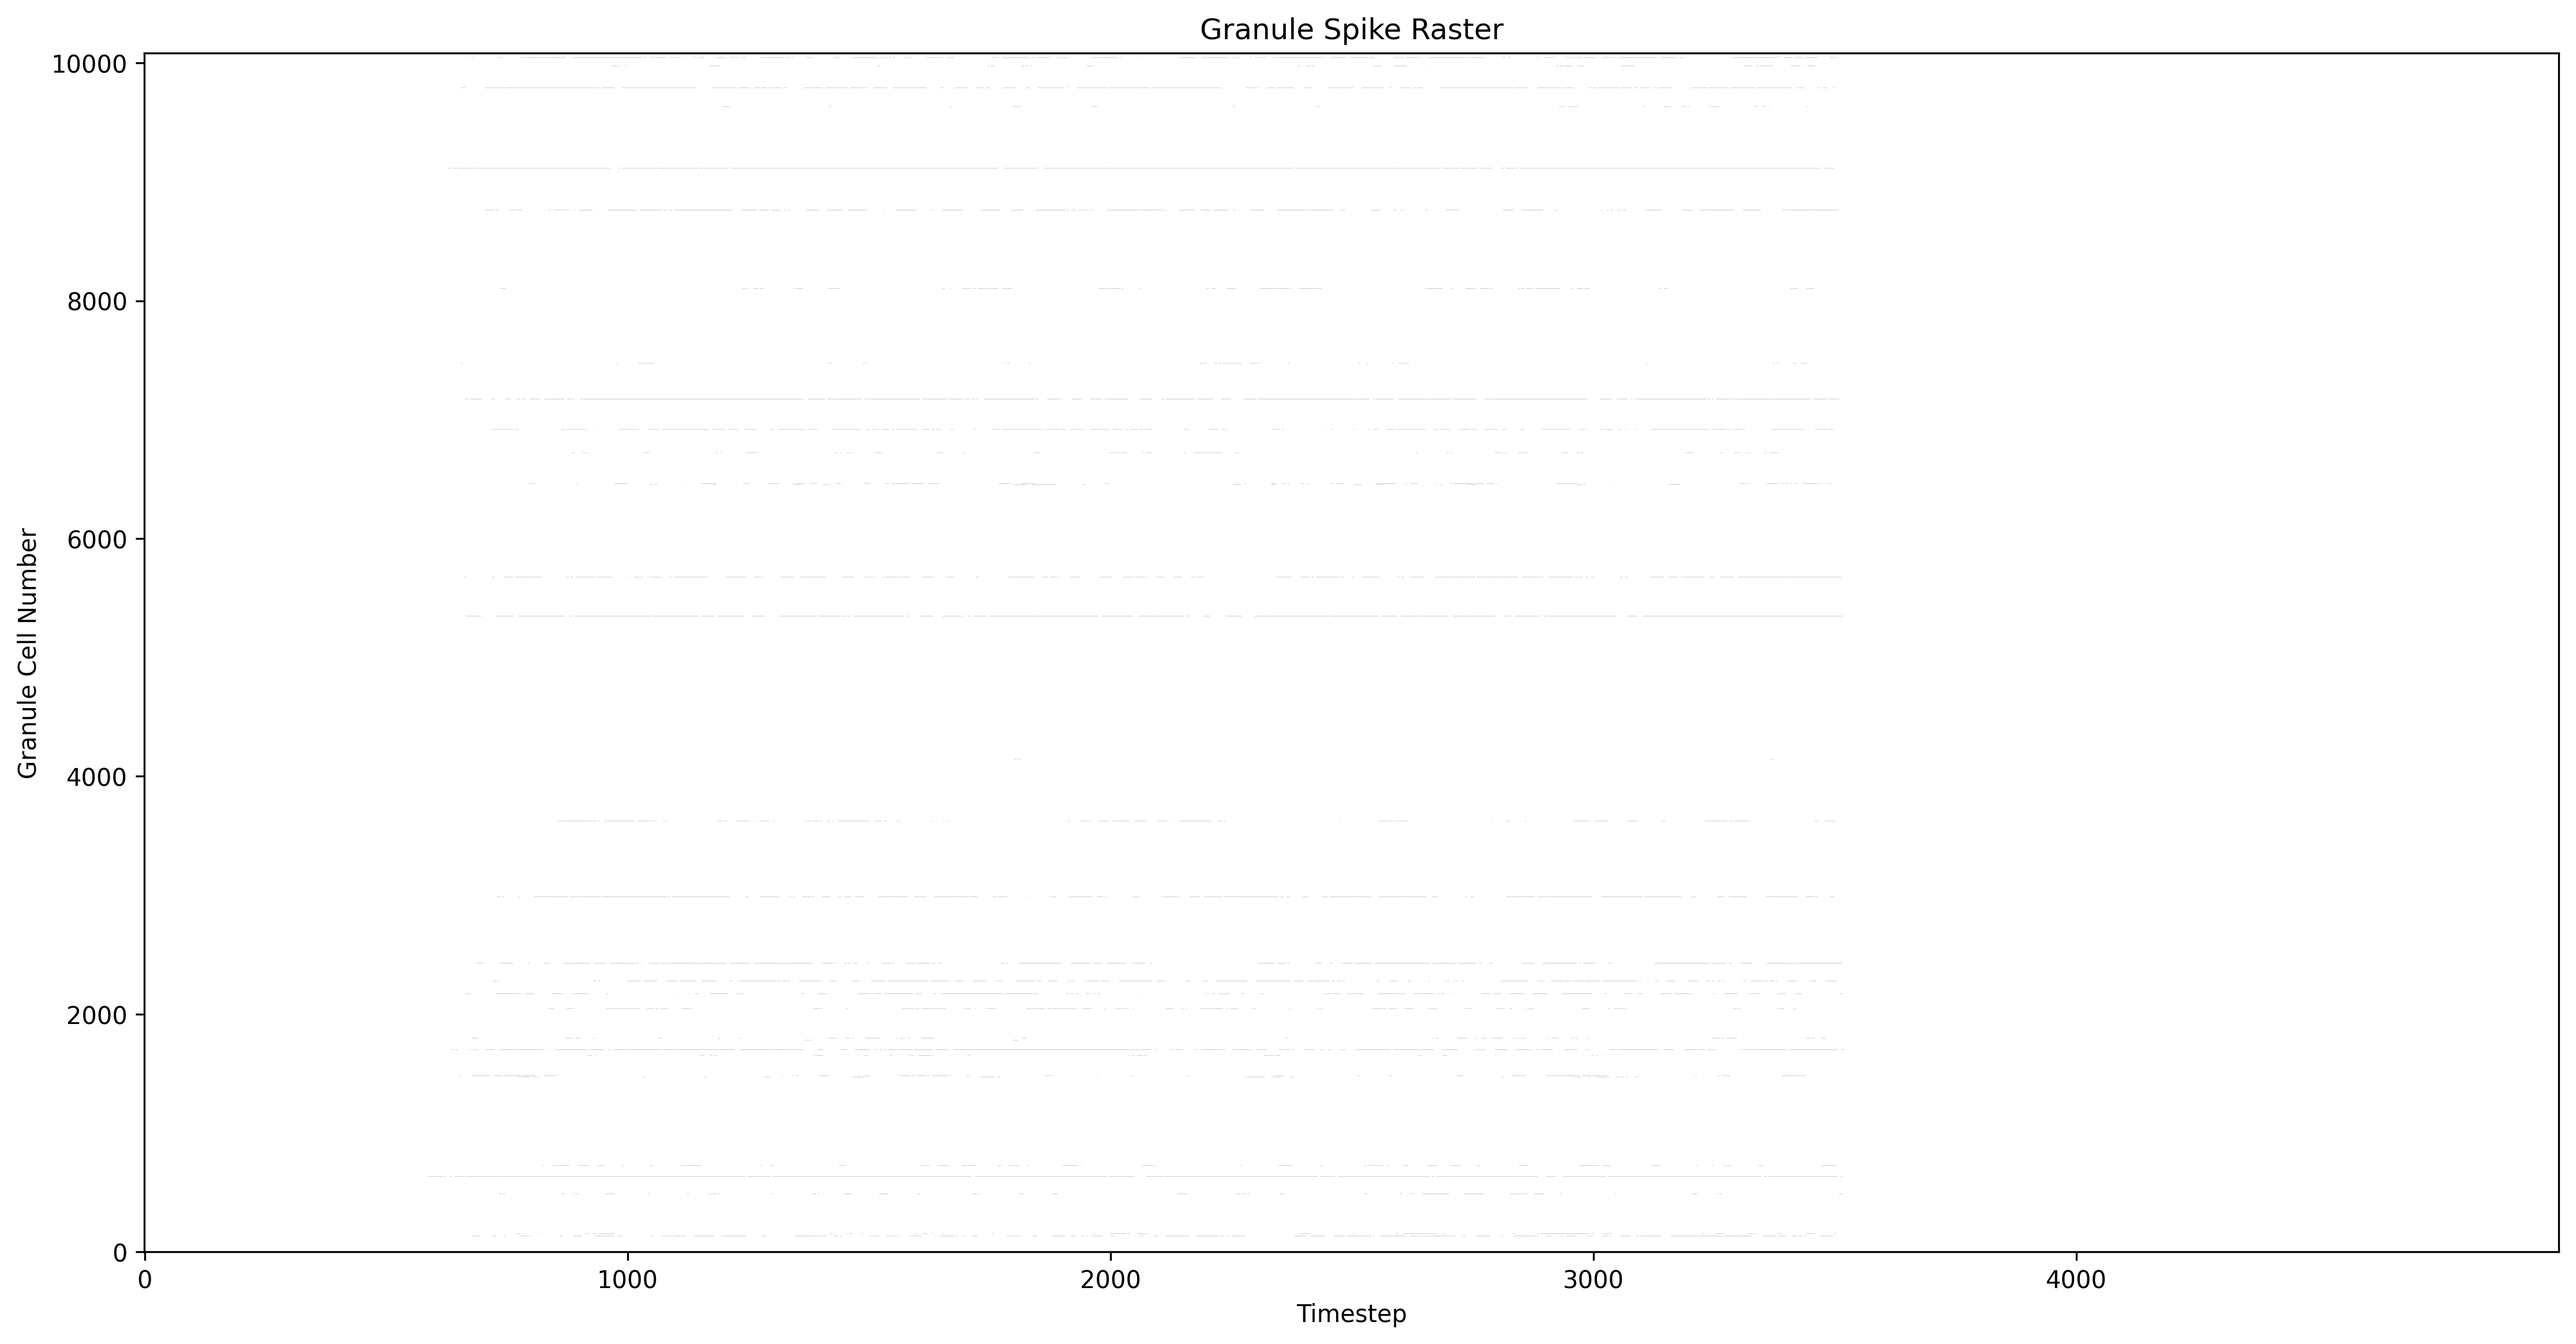
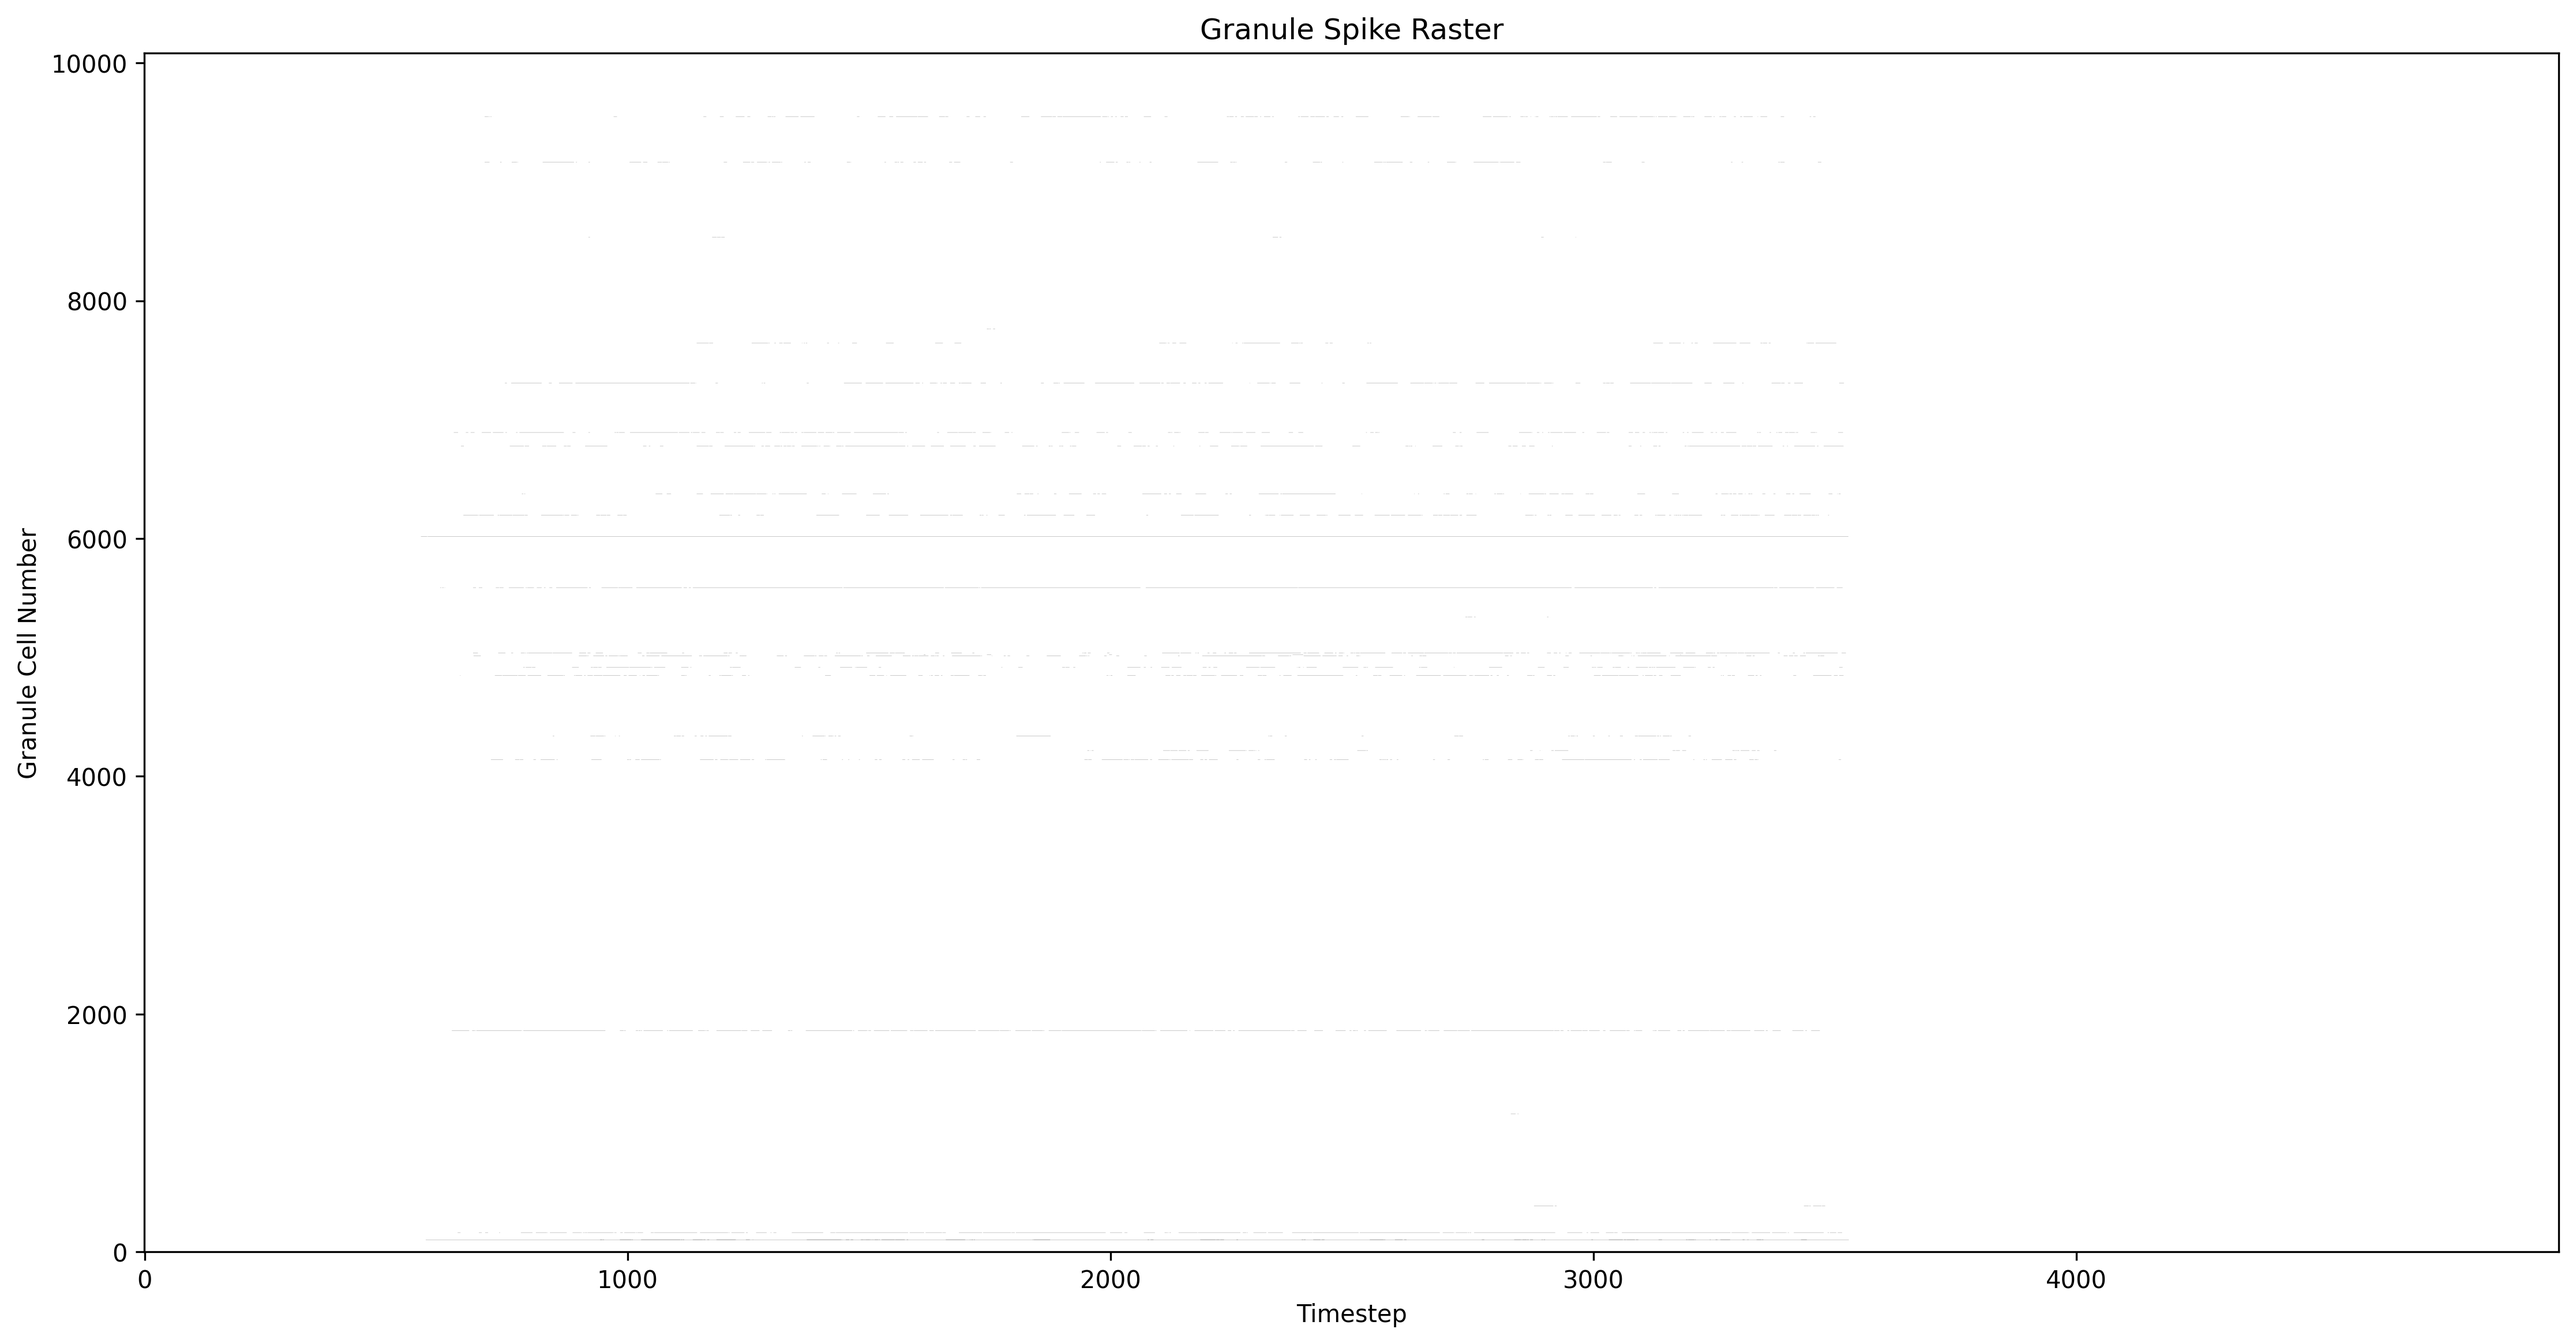
changed update input activity function for Go

diff --git a/run/control.py b/run/control.py
@@ -67,12 +67,14 @@ def run_session(recip, filpath_m, filepath_go, filepath_gr, conv, grgoW = 0.0007
         for t in range(0, numBins):
             timestep_start = time.time()
             MFact = MF.do_MF_dist(t, useCS)
-            # print("Mossy Fiber Activity generated")
+            print("Mossy Fiber Activity generated")
 
             # MF -> GR update
             GR.update_input_activity(MFGR_connect_arr, 1, mfAct = MFact)
             # do gr spikes
             GR.do_Granule(t)
+
+            print("MFGR complete")
 
             # grab GR activity
             GRact = GR.get_act()
@@ -80,17 +82,29 @@ def run_session(recip, filpath_m, filepath_go, filepath_gr, conv, grgoW = 0.0007
             # GR -> GO update
             GO.update_input_activity(GRGO_connect_arr, 3, grAct = GRact[trial])
 
+            print("GRGO complete")
+
             # MF -> GO
             GO.update_input_activity(MFGO_connect_arr, 1, mfAct = MFact)
             # GO spikes
             GO.do_Golgi(t)
 
+            print("MFGO complete")
+
             # GO -> GO update
             GO.update_input_activity(GOGO_connect_arr, 2, t = t)
+            
+            print("GOGO complete")
+
+            GOact = GO.get_act()
             # GO -> GR update
-            GO.update_input_activity(GRGO_connect_arr, 3, grAct = GRact[trial])
+            GR.update_input_activity(GOGR_connect_arr, 2, goAct = GOact[trial])
+
+            print("GOGR complete")
             
             MFrasters[t, :] = MFact
+
+            print("Time step:", t)
         # Final update
         # GR.updateFinalState()
         # Rasters

diff --git a/run/MFGoGrFunctions.py b/run/MFGoGrFunctions.py
@@ -260,10 +260,11 @@ class Golgi(): # class of Golgi cells, entire network of Golgi cells
             #     counts = np.zeros_like(self.inputMFGO)  # or use np.zeros(self.numGO) if more appropriate
             # else:
             #     counts = np.bincount(spiked_connections, minlength=self.inputMFGO.size)
+            
+            # Version 1 
             for i in range(self.numGolgi): 
                 gr_conn = connectArr[i]
                 valid_conn = gr_conn[gr_conn != -1]
-                grAct[valid_conn[0]] = 1
                 count = np.sum(grAct[valid_conn])
                 self.inputGRGO[i] = count
             # add to GRGO input
